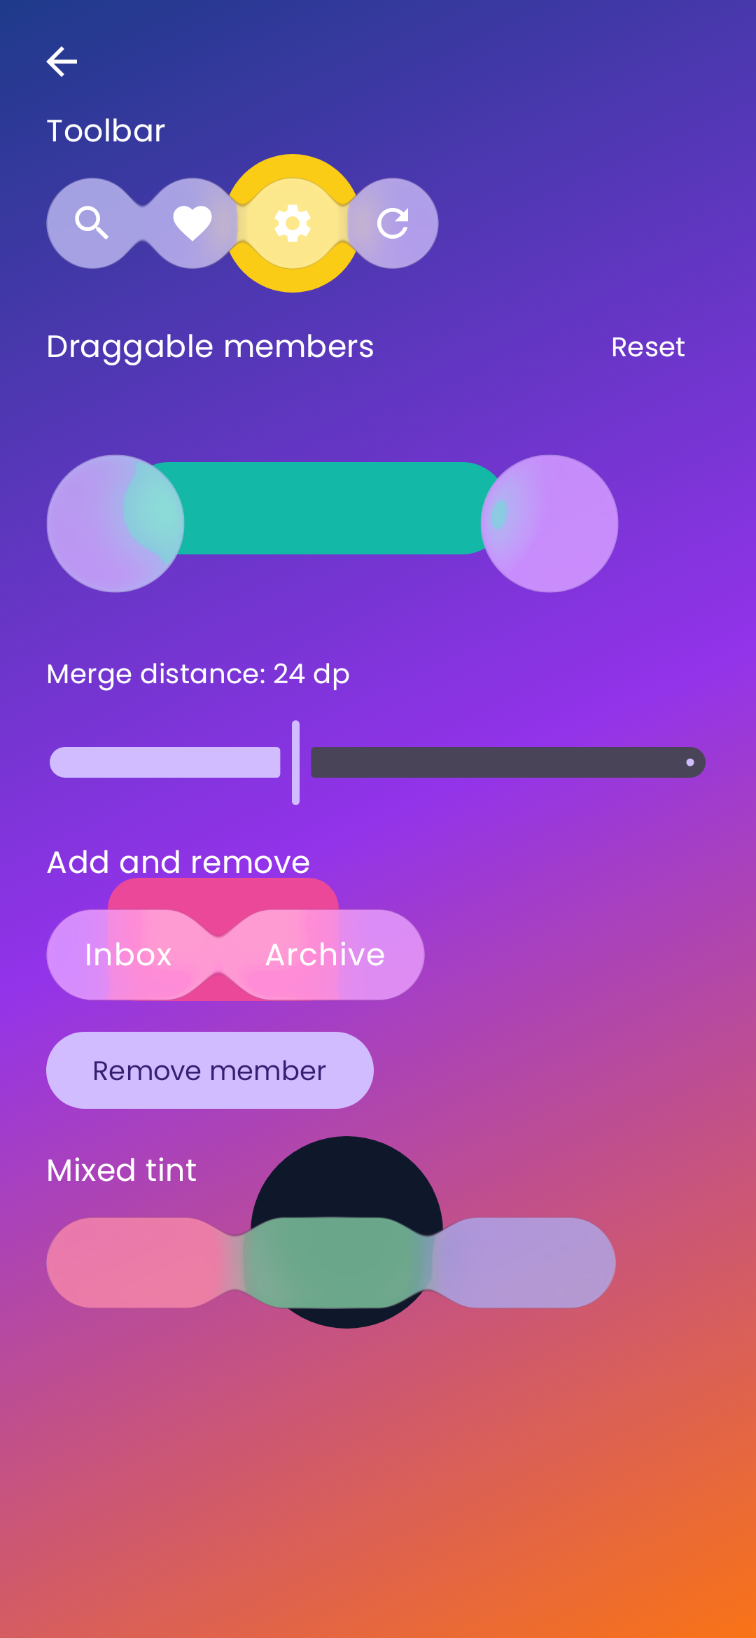
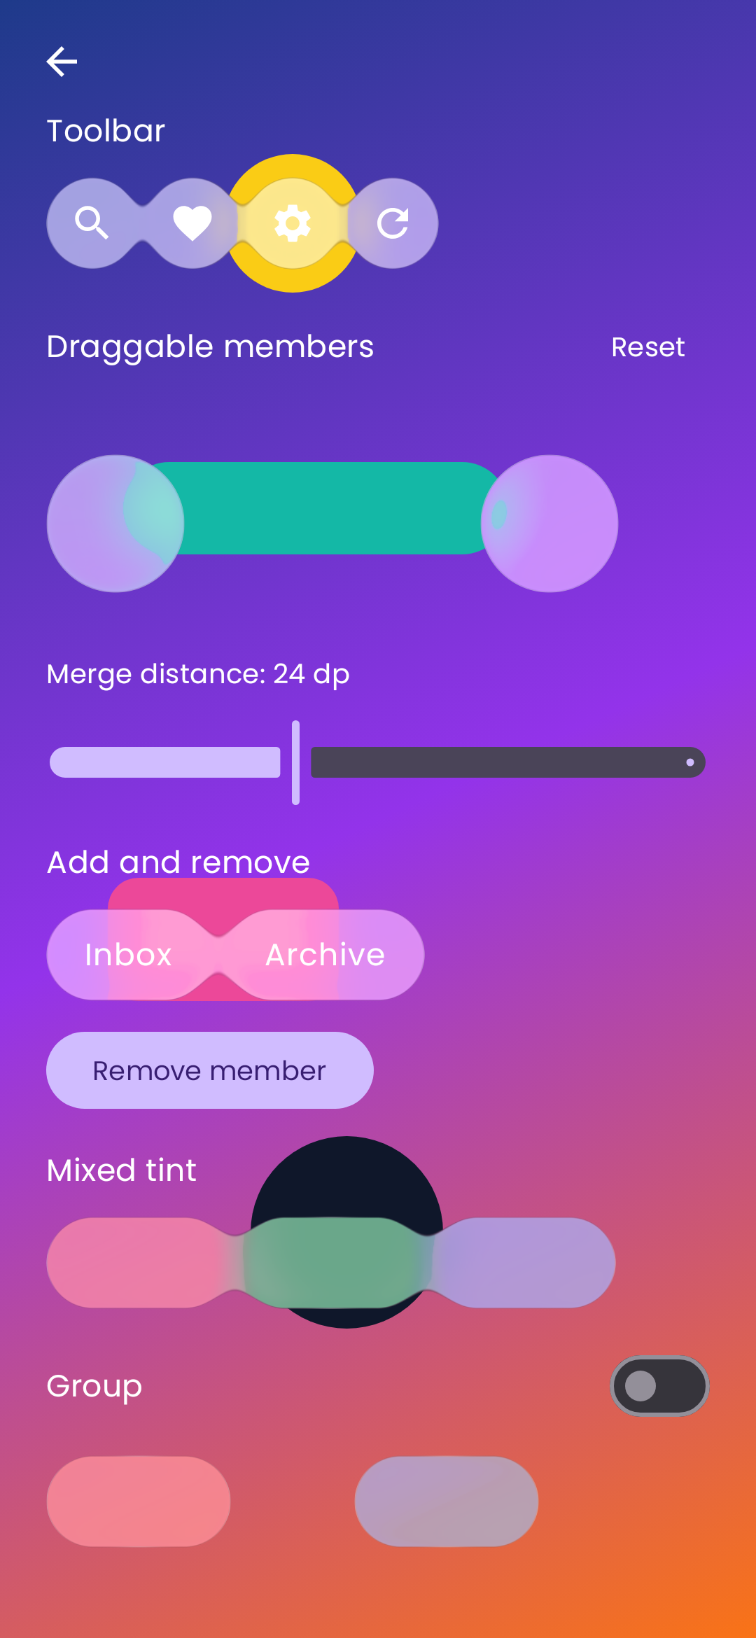
Add a Glass group screenshot, sample switch and documentation

Changed region(s): [[0.0608, 0.8407, 0.3042, 0.9652], [0.4563, 0.8718, 0.7302, 0.9652], [0.791, 0.8095, 0.9431, 0.8718]]

diff --git a/haze-screenshot-tests/src/commonTest/kotlin/dev/chrisbanes/haze/GlassContainerScreenshotScene.kt b/haze-screenshot-tests/src/commonTest/kotlin/dev/chrisbanes/haze/GlassContainerScreenshotScene.kt
@@ -45,7 +45,7 @@ import dev.chrisbanes.haze.glass.hazeGlassContainer
 import dev.chrisbanes.haze.test.ScreenshotUiTest
 import kotlin.math.abs
 
-internal enum class GlassContainerScene { Merged, Separate, MixedColours, MixedKeys, Overflow, Nested, InteractiveRest, InteractivePressed, Overlap }
+internal enum class GlassContainerScene { Merged, Separate, MixedColours, MixedKeys, Overflow, Nested, InteractiveRest, InteractivePressed, Overlap, Grouped }
 
 /** [fallback] asserts the fallback renderer's hard union, which draws no bridge. */
 internal fun ScreenshotUiTest.assertGlassContainerScene(scene: GlassContainerScene, fallback: Boolean = false) {
@@ -81,6 +81,15 @@ internal fun ScreenshotUiTest.assertGlassContainerScene(scene: GlassContainerSce
       }
     }
     GlassContainerScene.MixedKeys -> assertThat(pixels[149, 110]).isEqualTo(sceneBackground(149, 110))
+    GlassContainerScene.Grouped -> {
+      // The members are 120px apart, far beyond the merge distance, so only the group fills the gap.
+      // The first member's red tint covers the whole group, including the second member's bounds.
+      val between = pixels[180, 90]
+      assertThat(between).isNotEqualTo(sceneBackground(180, 90))
+      assertThat(between.red).isGreaterThan(between.blue)
+      assertThat(pixels[280, 90].red).isGreaterThan(pixels[280, 90].blue)
+      for ((x, y) in listOf(180 to 40, 180 to 140)) assertThat(pixels[x, y], "outside group at ($x, $y)").isEqualTo(sceneBackground(x, y))
+    }
     GlassContainerScene.Overflow -> {
       assertThat(pixels[52, 110].green).isLessThan(0.5f)
       assertThat(pixels[154, 110]).isEqualTo(sceneBackground(154, 110))
@@ -191,12 +200,17 @@ private fun PixelMap.colours(): List<Color> = List(width * height) { this[it % w
 private fun sceneBackground(x: Int, y: Int): Color =
   if ((x / 12 + y / 12) % 2 == 0) Color.White else Color(0xFFDDDDDD)
 
-private fun sceneStyle(tint: Color, background: Color = Color.Transparent, clear: Boolean = false): GlassStyle =
+private fun sceneStyle(
+  tint: Color,
+  background: Color = Color.Transparent,
+  clear: Boolean = false,
+  shape: RoundedCornerShape = RoundedCornerShape(12.dp),
+): GlassStyle =
   (if (clear) GlassStyle.clear else GlassStyle.regular).then {
     optics(GlassOptics(refractionStrength = 0f, refractionDisplacement = 0.dp, refractionDetailIntensity = 0f, depth = OpticalSizeValue.Fixed(0f), blurRadius = OpticalSizeValue.Fixed(0.dp)))
     tint(tint)
     backgroundColor(background)
-    shape(RoundedCornerShape(12.dp))
+    shape(shape)
     edgeSoftness(0.dp)
     edgeShadow(Color.Transparent)
     specularIntensity(0f)
@@ -248,6 +262,12 @@ private fun GlassContainerScreenshotScene(
             GlassContainerSceneMember(state, 40, 60, 100, 80, sceneStyle(Color.Red).then(pressed), interactionSource)
             GlassContainerSceneMember(state, 150, 60, 100, 80, sceneStyle(Color.Blue).then(pressed))
           }
+          GlassContainerScene.Grouped -> {
+            // Two capsules 120px apart share a group key, so they draw as one capsule over both rects.
+            val capsule = RoundedCornerShape(percent = 50)
+            GlassContainerSceneMember(state, 40, 60, 80, 60, sceneStyle(Color.Red, shape = capsule), groupKey = "pair")
+            GlassContainerSceneMember(state, 240, 60, 80, 60, sceneStyle(Color.Blue, shape = capsule), groupKey = "pair")
+          }
           GlassContainerScene.Overlap -> {
             GlassContainerSceneMember(state, 40, 60, 100, 80, sceneStyle(Color.Red.copy(alpha = 0.5f)))
             GlassContainerSceneMember(state, 110, 80, 100, 80, sceneStyle(Color.Blue.copy(alpha = 0.5f)))
@@ -272,6 +292,7 @@ private fun GlassContainerSceneMember(
   height: Int,
   style: GlassStyle,
   interactionSource: MutableInteractionSource? = null,
+  groupKey: Any? = null,
 ) {
   Box(
     Modifier.offset(x.dp, y.dp).size(width.dp, height.dp).hazeGlass(
@@ -281,6 +302,7 @@ private fun GlassContainerSceneMember(
       interactionSource = interactionSource,
       interactionTransformPivot = GlassTransformPivot.Center,
       interactionReducedMotionPolicy = GlassReducedMotionPolicy.Full,
+      groupKey = groupKey,
     ),
   ) {
     // Small opaque label marks leave the interior and inter-member bridge observable.

diff --git a/sample/shared/src/commonMain/kotlin/dev/chrisbanes/haze/sample/GlassContainerSample.kt b/sample/shared/src/commonMain/kotlin/dev/chrisbanes/haze/sample/GlassContainerSample.kt
@@ -37,6 +37,7 @@ import androidx.compose.material3.Icon
 import androidx.compose.material3.IconButton
 import androidx.compose.material3.MaterialTheme
 import androidx.compose.material3.Slider
+import androidx.compose.material3.Switch
 import androidx.compose.material3.Text
 import androidx.compose.material3.TextButton
 import androidx.compose.runtime.Composable
@@ -68,6 +69,7 @@ public fun GlassContainerSample(navController: NavHostController) {
   var mergeDistance by remember { mutableStateOf(24.dp) }
   var dragOffsets by remember { mutableStateOf(listOf(Offset.Zero, Offset.Zero)) }
   var extraMemberVisible by remember { mutableStateOf(false) }
+  var grouped by remember { mutableStateOf(false) }
 
   GlassContainerSampleContent(
     mergeDistance = mergeDistance,
@@ -80,6 +82,8 @@ public fun GlassContainerSample(navController: NavHostController) {
     onResetDrag = { dragOffsets = listOf(Offset.Zero, Offset.Zero) },
     onExtraMemberVisibleChange = { extraMemberVisible = it },
     onBack = navController::navigateUp,
+    grouped = grouped,
+    onGroupedChange = { grouped = it },
   )
 }
 
@@ -94,6 +98,8 @@ public fun GlassContainerSampleContent(
   onExtraMemberVisibleChange: (Boolean) -> Unit,
   onBack: () -> Unit,
   modifier: Modifier = Modifier,
+  grouped: Boolean = false,
+  onGroupedChange: (Boolean) -> Unit = {},
 ) {
   // Every member samples the same source, so every member can merge with its neighbours.
   val hazeState = rememberHazeState()
@@ -343,6 +349,49 @@ public fun GlassContainerSampleContent(
             Modifier
               .size(width = 96.dp, height = 48.dp)
               .hazeGlass(input = HazeInput.Sources(hazeState), style = blueStyle),
+          )
+        }
+      }
+
+      // 5. Group. Members with an equal, non-null groupKey that are next to each other in the
+      // container draw as one shape over their combined bounds, however far apart they are. The
+      // group uses the first member's tint, so the red pill's tint covers both. The pills are 64 dp
+      // apart, well outside the 16 dp merge distance, so only the group joins them.
+      Column(verticalArrangement = Arrangement.spacedBy(12.dp)) {
+        Row(verticalAlignment = Alignment.CenterVertically) {
+          Text(
+            "Group",
+            modifier = Modifier.weight(1f),
+            color = Color.White,
+            style = MaterialTheme.typography.titleMedium,
+          )
+          Switch(
+            checked = grouped,
+            onCheckedChange = onGroupedChange,
+            modifier = Modifier.testTag("glass_container_group_switch"),
+          )
+        }
+        Row(
+          modifier = Modifier.hazeGlassContainer(mergeDistance = 16.dp),
+          horizontalArrangement = Arrangement.spacedBy(64.dp),
+        ) {
+          Box(
+            Modifier
+              .size(width = 96.dp, height = 48.dp)
+              .hazeGlass(
+                input = HazeInput.Sources(hazeState),
+                style = redStyle,
+                groupKey = if (grouped) "pair" else null,
+              ),
+          )
+          Box(
+            Modifier
+              .size(width = 96.dp, height = 48.dp)
+              .hazeGlass(
+                input = HazeInput.Sources(hazeState),
+                style = blueStyle,
+                groupKey = if (grouped) "pair" else null,
+              ),
           )
         }
       }

diff --git a/haze-screenshot-tests/src/jvmTest/kotlin/dev/chrisbanes/haze/GlassContainerDesktopScreenshotTest.kt b/haze-screenshot-tests/src/jvmTest/kotlin/dev/chrisbanes/haze/GlassContainerDesktopScreenshotTest.kt
@@ -25,6 +25,8 @@ class GlassContainerDesktopScreenshotTest : ScreenshotTest() {
 
   @Test fun interactiveClusterPressed() = runScreenshotTest(Size(360f, 240f)) { assertGlassContainerScene(GlassContainerScene.InteractivePressed) }
 
+  @Test fun groupedMembersDrawOneShape() = runScreenshotTest(Size(360f, 240f)) { assertGlassContainerScene(GlassContainerScene.Grouped) }
+
   @Test fun removalRestoresOutsideContainerPixels() = runScreenshotTest(Size(360f, 240f)) { assertGlassContainerRemovalRestoresOutsidePixels() }
 
   @Test fun memberGrowsOutOfNeighbour() = runScreenshotTest(Size(360f, 240f)) { assertGlassContainerTransitionSequence(grow = true) }

diff --git a/haze-screenshot-tests/src/androidHostTest/kotlin/dev/chrisbanes/haze/GlassContainerAndroidScreenshotTest.kt b/haze-screenshot-tests/src/androidHostTest/kotlin/dev/chrisbanes/haze/GlassContainerAndroidScreenshotTest.kt
@@ -26,6 +26,8 @@ class GlassContainerAndroidScreenshotTest : ScreenshotTest() {
 
   @Test fun interactiveClusterPressed() = runScreenshotTest { assertGlassContainerScene(GlassContainerScene.InteractivePressed) }
 
+  @Test fun groupedMembersDrawOneShape() = runScreenshotTest { assertGlassContainerScene(GlassContainerScene.Grouped) }
+
   @Test fun removalRestoresOutsideContainerPixels() = runScreenshotTest { assertGlassContainerRemovalRestoresOutsidePixels() }
 
   @Test fun memberGrowsOutOfNeighbour() = runScreenshotTest { assertGlassContainerTransitionSequence(grow = true) }

diff --git a/haze-screenshot-tests/src/androidHostTest/kotlin/dev/chrisbanes/haze/GlassContainerFallbackAndroidScreenshotTest.kt b/haze-screenshot-tests/src/androidHostTest/kotlin/dev/chrisbanes/haze/GlassContainerFallbackAndroidScreenshotTest.kt
@@ -16,4 +16,6 @@ class GlassContainerFallbackAndroidScreenshotTest : ScreenshotTest() {
   @Test fun separateGap20() = runScreenshotTest { assertGlassContainerScene(GlassContainerScene.Separate, fallback = true) }
 
   @Test fun mixedTintAndBackground() = runScreenshotTest { assertGlassContainerScene(GlassContainerScene.MixedColours, fallback = true) }
+
+  @Test fun groupedMembersDrawOneShape() = runScreenshotTest { assertGlassContainerScene(GlassContainerScene.Grouped, fallback = true) }
 }

diff --git a/docs/effects/glass/containers.md b/docs/effects/glass/containers.md
@@ -49,8 +49,8 @@ disables merging by proximity. Optionally pass `transitionSpec` and `reducedMoti
 described under [Transitions](#transitions).
 
 Every [`hazeGlass`][hazeGlass] modifier below the container becomes a member of its nearest container. A member
-keeps its own style, shape, colors and interaction response. A `hazeGlass` modifier outside a
-container is unchanged.
+keeps its own style, shape, colors and interaction response, unless it is in a [group](#groups),
+which draws as one shape. A `hazeGlass` modifier outside a container is unchanged.
 
 ## Merge rule
 
@@ -83,6 +83,55 @@ Members merge only when all of these hold:
   member overlaps the cluster, blur and tint apply twice in the overlap.
 
 Lower-quality performance modes also render the merged shape at lower resolution.
+
+## Groups
+
+The merge distance joins members that are close together. To join members at any distance, give
+them the same `groupKey`. A group is the counterpart of SwiftUI's `glassEffectUnion`.
+
+```kotlin
+// Styles compare by identity, so remember the style.
+val style = remember { GlassStyle.regular.then { shape(CircleShape) } }
+
+Row(
+  modifier = Modifier.fillMaxWidth().hazeGlassContainer(mergeDistance = 16.dp),
+  horizontalArrangement = Arrangement.SpaceBetween,
+) {
+  repeat(2) {
+    Box(
+      Modifier
+        .size(48.dp)
+        .hazeGlass(input = HazeInput.Sources(hazeState), style = style, groupKey = "pair"),
+    )
+  }
+}
+```
+
+Members of one container with an equal, non-null `groupKey` that are next to each other in
+registration order draw as one Glass shape over the bounding box of their rects. In the example, the
+two circles become one capsule that spans the row, although they are far apart. Keys compare with
+`==`. A `null` key leaves the member ungrouped, and Haze ignores `groupKey` outside a container.
+
+- **Shape.** The group uses the first member's `RoundedCornerShape`, resolved at the group's size, so
+  a capsule stays a capsule.
+- **Appearance.** The group uses the first member's tint, background color and light. The other
+  members' values are not drawn.
+- **Members left out.** A member that couldn't merge with the first member, because its input or
+  material differs, draws on its own. So does a member that is rotated, scaled or fading, under
+  the usual [merge rule](#merge-rule).
+- **Order.** A member that isn't in the group, between two members that are, splits the group into
+  separate groups, because merging never changes drawing order.
+- **Neighbours.** A group counts as one member when the merge distance is measured, using its
+  bounds, so it can bridge with a neighbouring member. It also counts as one member towards the
+  four-member limit.
+- **Optical size.** The group's bounds count once toward the container's
+  [optical size](#optical-size).
+- **Transitions.** Members of the same group are neighbours at any distance. With the default
+  `MatchedGeometry`, a member that attaches grows the group's bounds, and one that detaches shrinks
+  them, timed by `transitionSpec`. A fading member leaves the group while it fades.
+- **Interaction.** Pressing any member scales and lights the whole group. Each member's content
+  still follows its own `interactionTransformTarget`.
+- **Fallback.** The [fallback](#fallback) draws the group as its single shape.
 
 ## Optical size
 
@@ -204,8 +253,8 @@ fallback rendering omits.
 ## Samples
 
 The `Glass — Container` sample shows a merging toolbar, two draggable members with a merge
-distance control, a member added and removed with `AnimatedVisibility`, and a cluster of members
-with different tints. Its source is in
+distance control, a member added and removed with `AnimatedVisibility`, a cluster of members
+with different tints, and two distant pills that a `Group` switch joins into one shape. Its source is in
 [`GlassContainerSample.kt`](https://github.com/chrisbanes/haze/blob/main/sample/shared/src/commonMain/kotlin/dev/chrisbanes/haze/sample/GlassContainerSample.kt).
 
 The `Glass — Container Showcase` sample places a drawing palette over two brushstrokes. Open

diff --git a/docs/adr/0013-merge-nearby-glass-surfaces-through-a-container.md b/docs/adr/0013-merge-nearby-glass-surfaces-through-a-container.md
@@ -99,9 +99,11 @@ motion scale (animations off), member transitions snap instead
   iOS keeps the morph and removes its elasticity. Turning animations off is different:
   `GlassReducedMotionPolicy.System` snaps at a zero platform motion scale
   ([#1560](https://github.com/chrisbanes/haze/issues/1560)).
-- **`glassEffectID`-style identifiers and `glassEffectUnion`-style forced unions.** Deferred.
-  Identifiers add nothing over node identity for neighbour morphs. A forced union needs grouping
-  rules that the first version doesn't need.
+- **`glassEffectID`-style identifiers.** Deferred. They add nothing over node identity for
+  neighbour morphs.
+- **`glassEffectUnion`-style forced unions.** Initially deferred, because a union needs grouping
+  rules that the first version didn't need. Decided later; see the
+  [groups amendment](#amendment-glass-groups-through-groupkey-2026-10-23).
 
 ## Consequences
 
@@ -160,3 +162,38 @@ The container parameter is now `mergeDistance` and defaults to `GlassDefaults.me
 (16 dp). In Compose, `spacing` reads as layout spacing between children, which this parameter
 never controls. Its behaviour is unchanged: every mention of the spacing above refers to the
 merge distance.
+
+## Amendment: Glass groups through `groupKey` (2026-10-23)
+
+`Modifier.hazeGlass` gains `groupKey: Any? = null`, the `glassEffectUnion`-style forced union that
+this ADR first deferred. In a simulator capture of iOS 27, `glassEffectUnion` replaces its members
+with one Glass shape over their combined bounding box, whatever the distance, while `spacing`
+blends members by proximity. The captures are in the
+[design comment on #1409](https://github.com/chrisbanes/haze/issues/1409#issuecomment-6362868783) and the
+[v4 notes](https://github.com/chrisbanes/haze/blob/fce3bf446175686281a6500c8c856cb9702fac5a/prototype-evidence/1438/v4/NOTES.md).
+Both call the parameter `unionKey`; it ships as `groupKey`, and the entity is a **Glass group**.
+`mergeDistance` keeps both of its roles, because it also sets the width of the bridge.
+
+Members of one container with an equal, non-null `groupKey` that are consecutive in registration
+order draw as one Glass shape over the bounding box of their rects:
+
+- **Shape and appearance.** The first member supplies the `RoundedCornerShape`, resolved at the
+  group's size, and the tint, background color and light. This narrows the rule above, that each
+  member keeps its own shape and colours, to members outside a group.
+- **Members left out.** A member whose merge key differs from the first member's, or that is
+  rotated, scaled or fading, draws on its own under the existing rules.
+- **Order.** A member between two group members that isn't in the group splits them into separate
+  groups. This keeps the rule that merging never reorders members.
+- **Proximity.** A group counts as one member for `mergeDistance` clustering, measured from its
+  bounds, and for the four-member cap.
+- **Optical size.** The group's bounds count as one member in the container-wide optical size.
+- **Transitions.** Members of the same group are transition neighbours at any distance, so a
+  `MatchedGeometry` member that attaches or detaches animates the group's bounds through
+  `transitionSpec`. A fading member leaves the group while it fades.
+- **Interaction.** A press on any member drives the whole group's scale and light. Each member's
+  content still follows its own transform target.
+- **Fallback and containers.** The fallback renderer draws a group as its single shape, and
+  `groupKey` is ignored outside a container.
+
+A group becomes one member of the merged field, so the shaders and the field's members limit are
+unchanged. Not checked: iOS 26 or an on-device build.

diff --git a/CONTEXT.md b/CONTEXT.md
@@ -61,17 +61,24 @@ _Avoid_: Size response, blur profile, adaptive optics
 **Glass container**:
 An ancestor that draws its Glass members' surfaces together, so that nearby members can merge into
 one shape and share one optical size. Its merge distance sets how close members must be before they merge.
-_Avoid_: Glass group, effect container
+_Avoid_: Effect container
 
 **Glass member**:
 A Glass surface that belongs to its nearest Glass container. It keeps its own shape, colours and
-interaction response.
+interaction response, unless it is part of a Glass group, which draws with its first member's shape
+and appearance.
 _Avoid_: Child surface, container item
 
 **Glass cluster**:
 Glass members of one container that are close enough and share enough appearance to draw as one
 surface. Their edges stretch towards each other and form smooth bridges as they approach.
 _Avoid_: Union, blob, merged group
+
+**Glass group**:
+Glass members of one container that share a group key and are consecutive in registration order.
+They draw as one Glass shape over their combined bounds, whatever the distance between them. A
+group takes part in a Glass cluster as one member.
+_Avoid_: Glass container, union
 
 **Backdrop input**:
 The `HazeInput.Backdrop` intent to consume all pixels drawn earlier in the same window. A native
